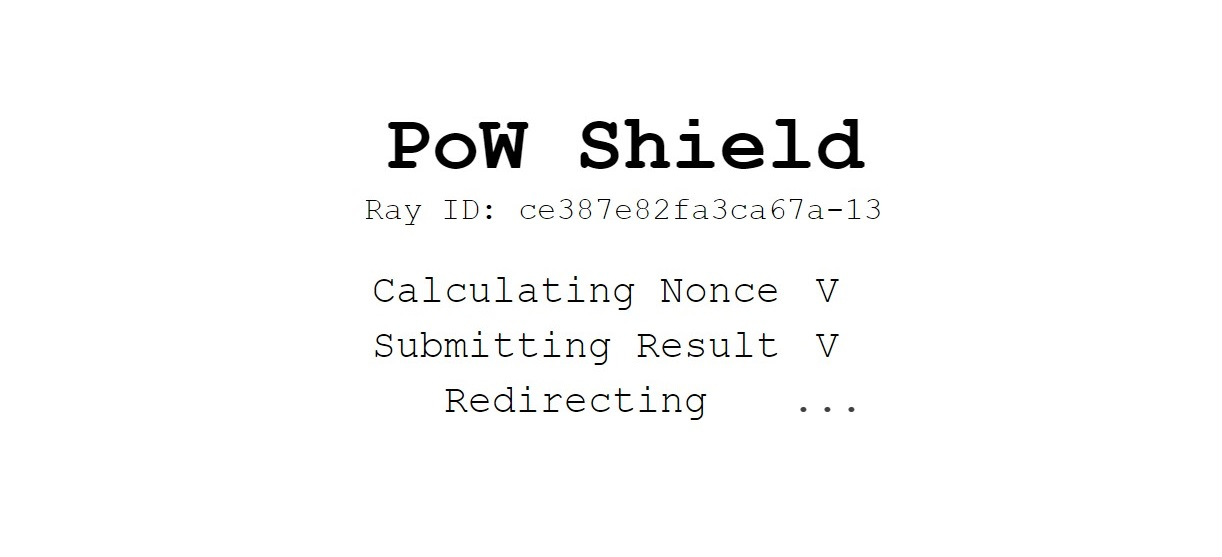
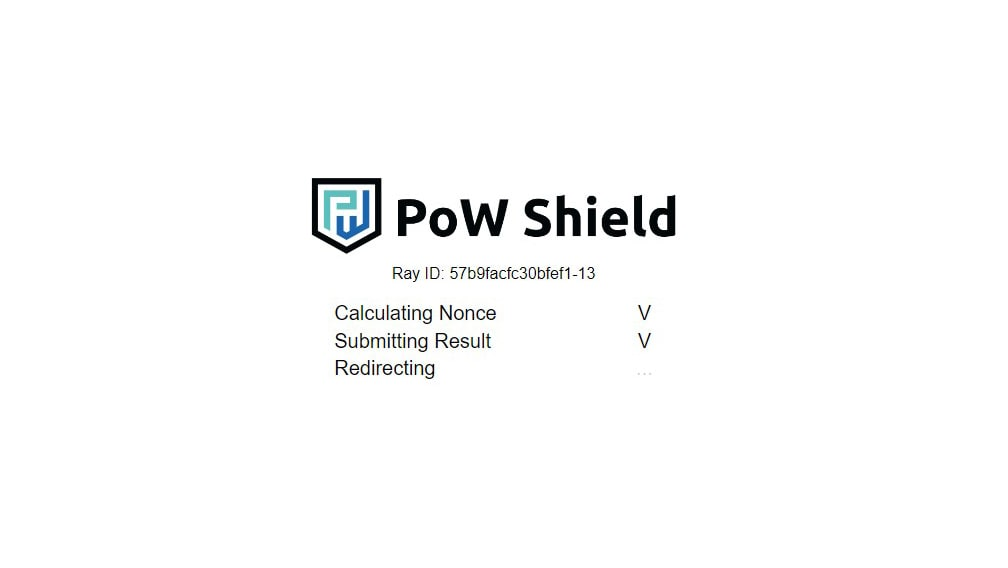
Restyle PoW page (#377)
* restyle pow page

* update screenshot

diff --git a/public/stylesheets/style.css b/public/stylesheets/style.css
@@ -1,5 +1,5 @@
 body {
-  font-family: 'Courier New', Courier, monospace;
+  font-family: Helvetica, Arial, sans-serif;
 }
 
 a {
@@ -9,32 +9,41 @@ a {
 /* divs */
 .container {
   height: 100vh;
-  width: fit-content;
+  width: 300px;
   text-align: center;
   text-align: -moz-center;
   justify-content: center;
   margin: 0 auto;
   padding-top: 30vh;
   transition: all 0.5s;
+  position: relative;
 }
-h1{
-  margin-bottom:0px;
+h1 {
+  margin-bottom: 0px;
 }
-.rayid{
-  margin-top:0px;
-  font-size:80%;
+.rayid {
+  margin-top: 0px;
+  font-size: 80%;
 }
 .submitting {
-  display:none;
+  display: none;
 }
 .success {
-  display:none;
+  display: none;
 }
 .failed {
-  display:none;
+  display: none;
 }
-.w30{
-  width:30px;
+table{
+  padding-left:20px;
+  padding-right:20px;
+}
+.w-full {
+  text-align:left;
+  width: 100%;
+}
+.w30 {
+  width: 30px;
 }
 .blink {
   animation: blinker 1s linear infinite;
